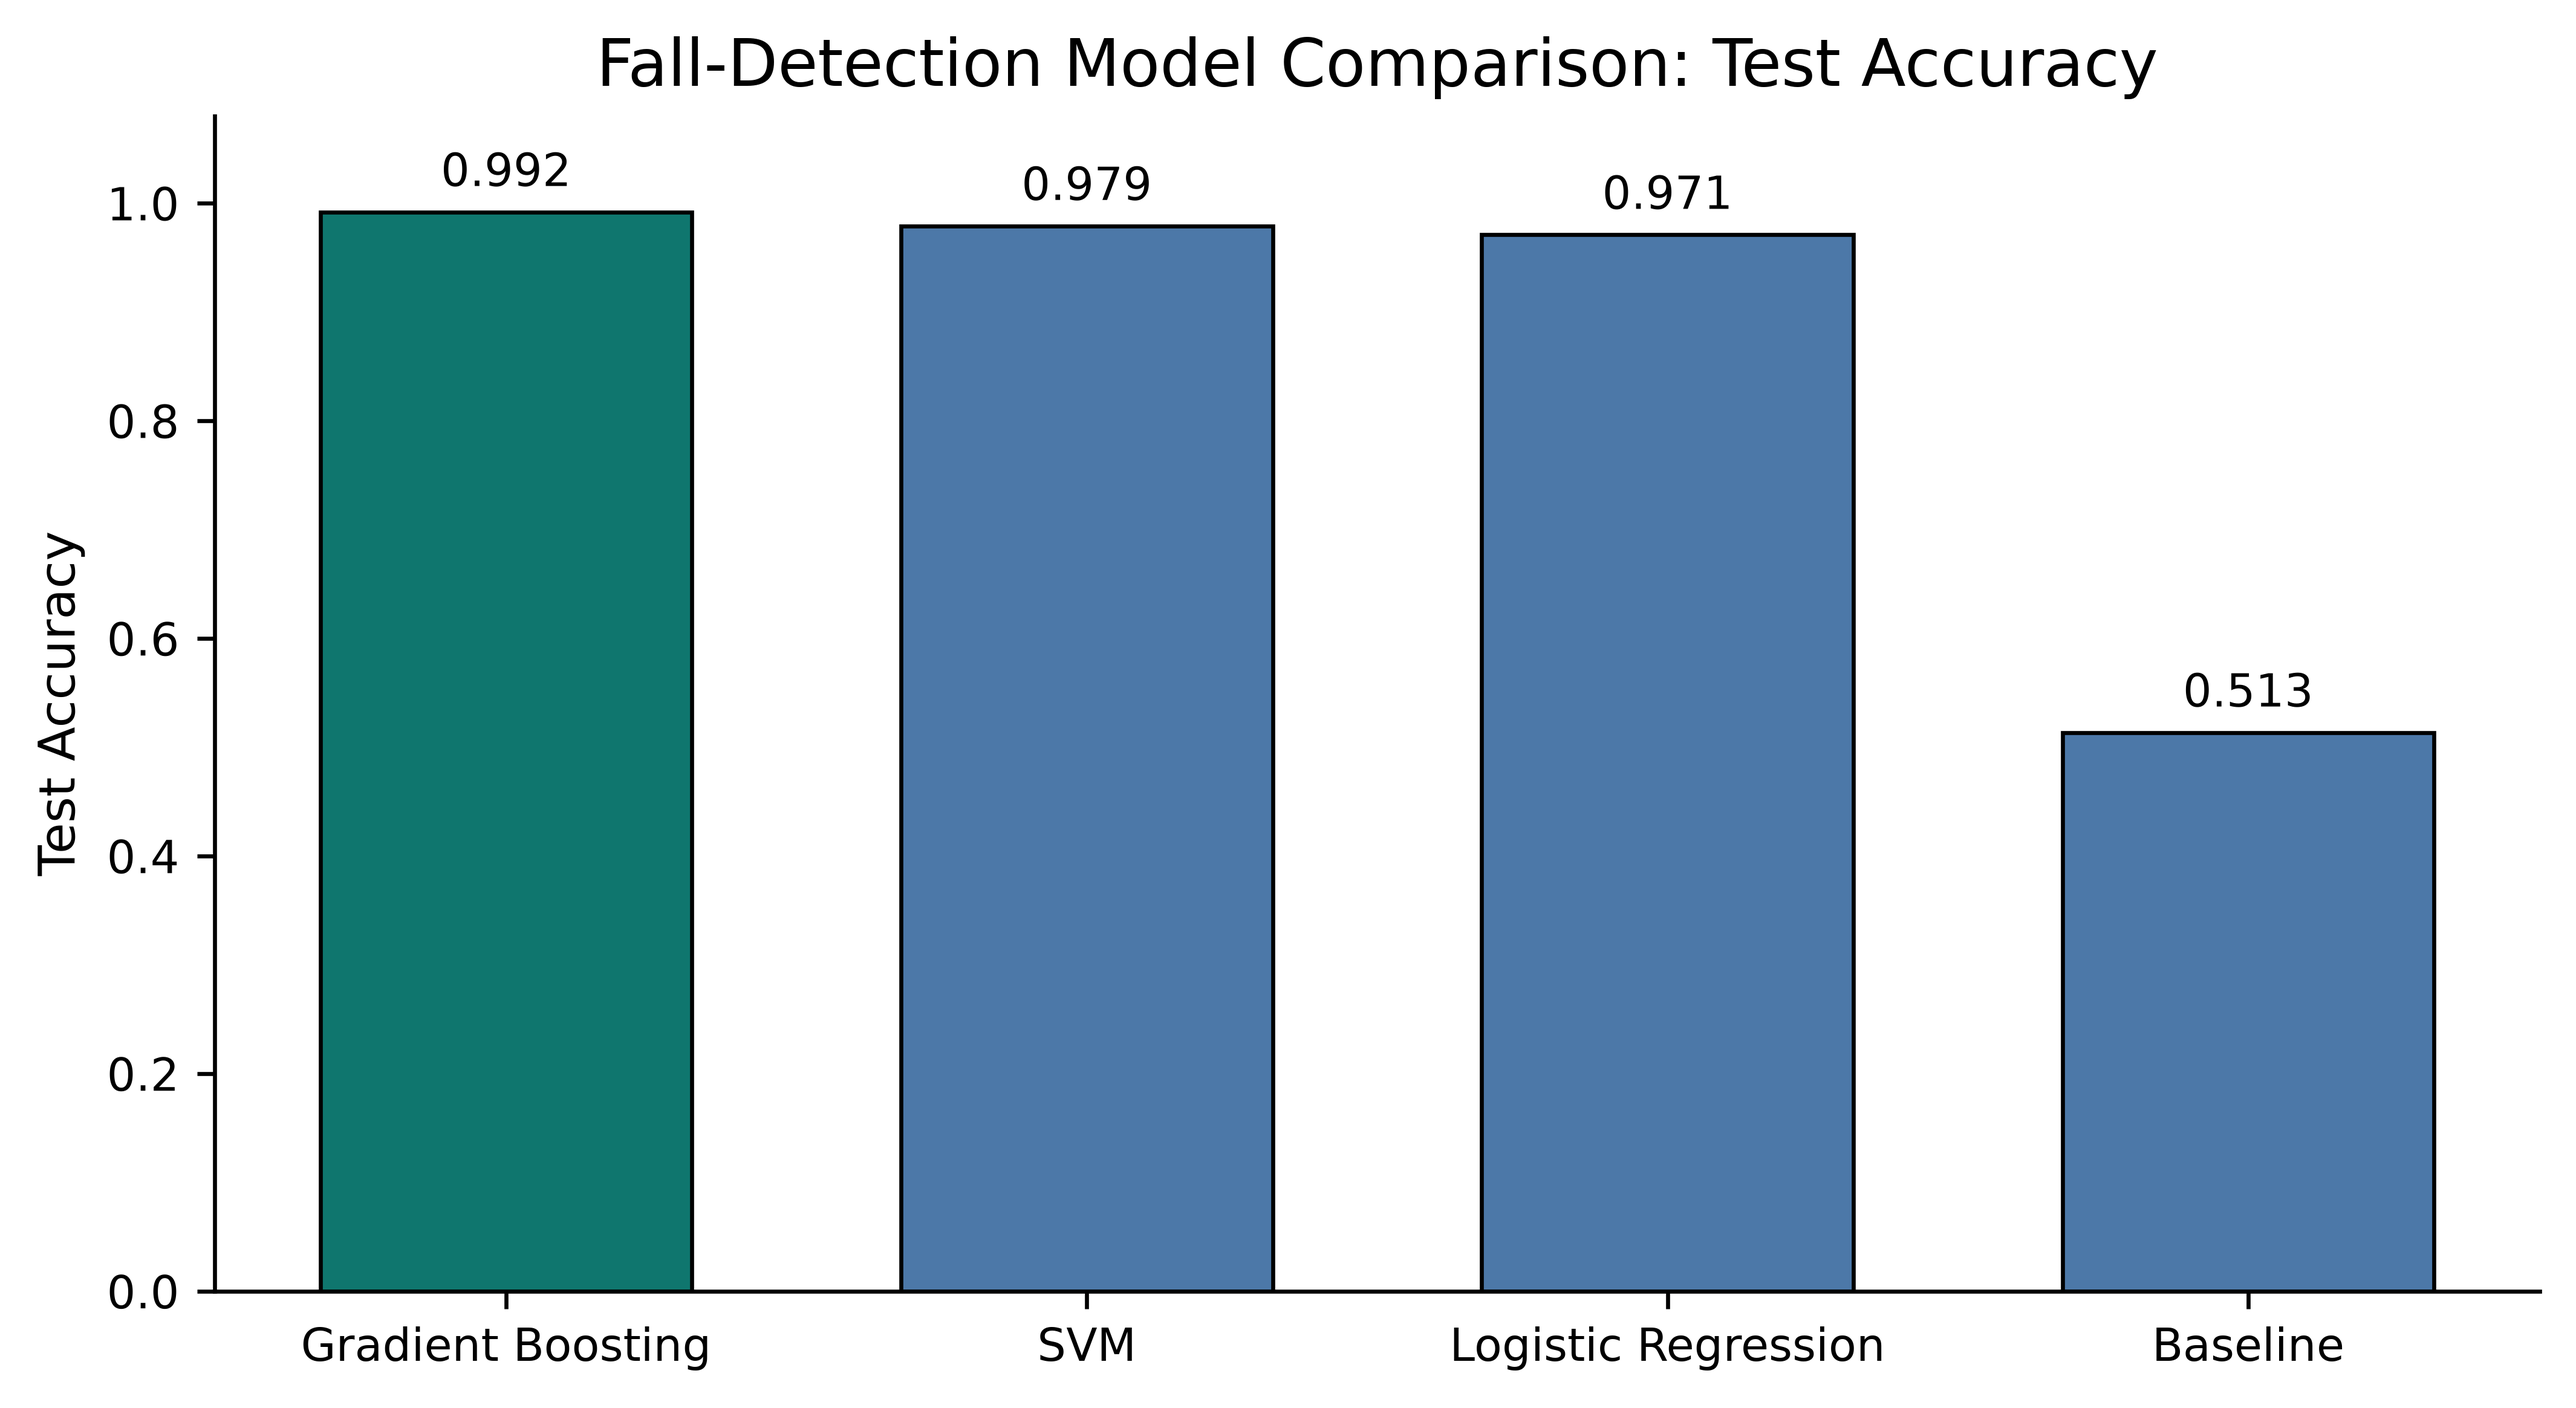
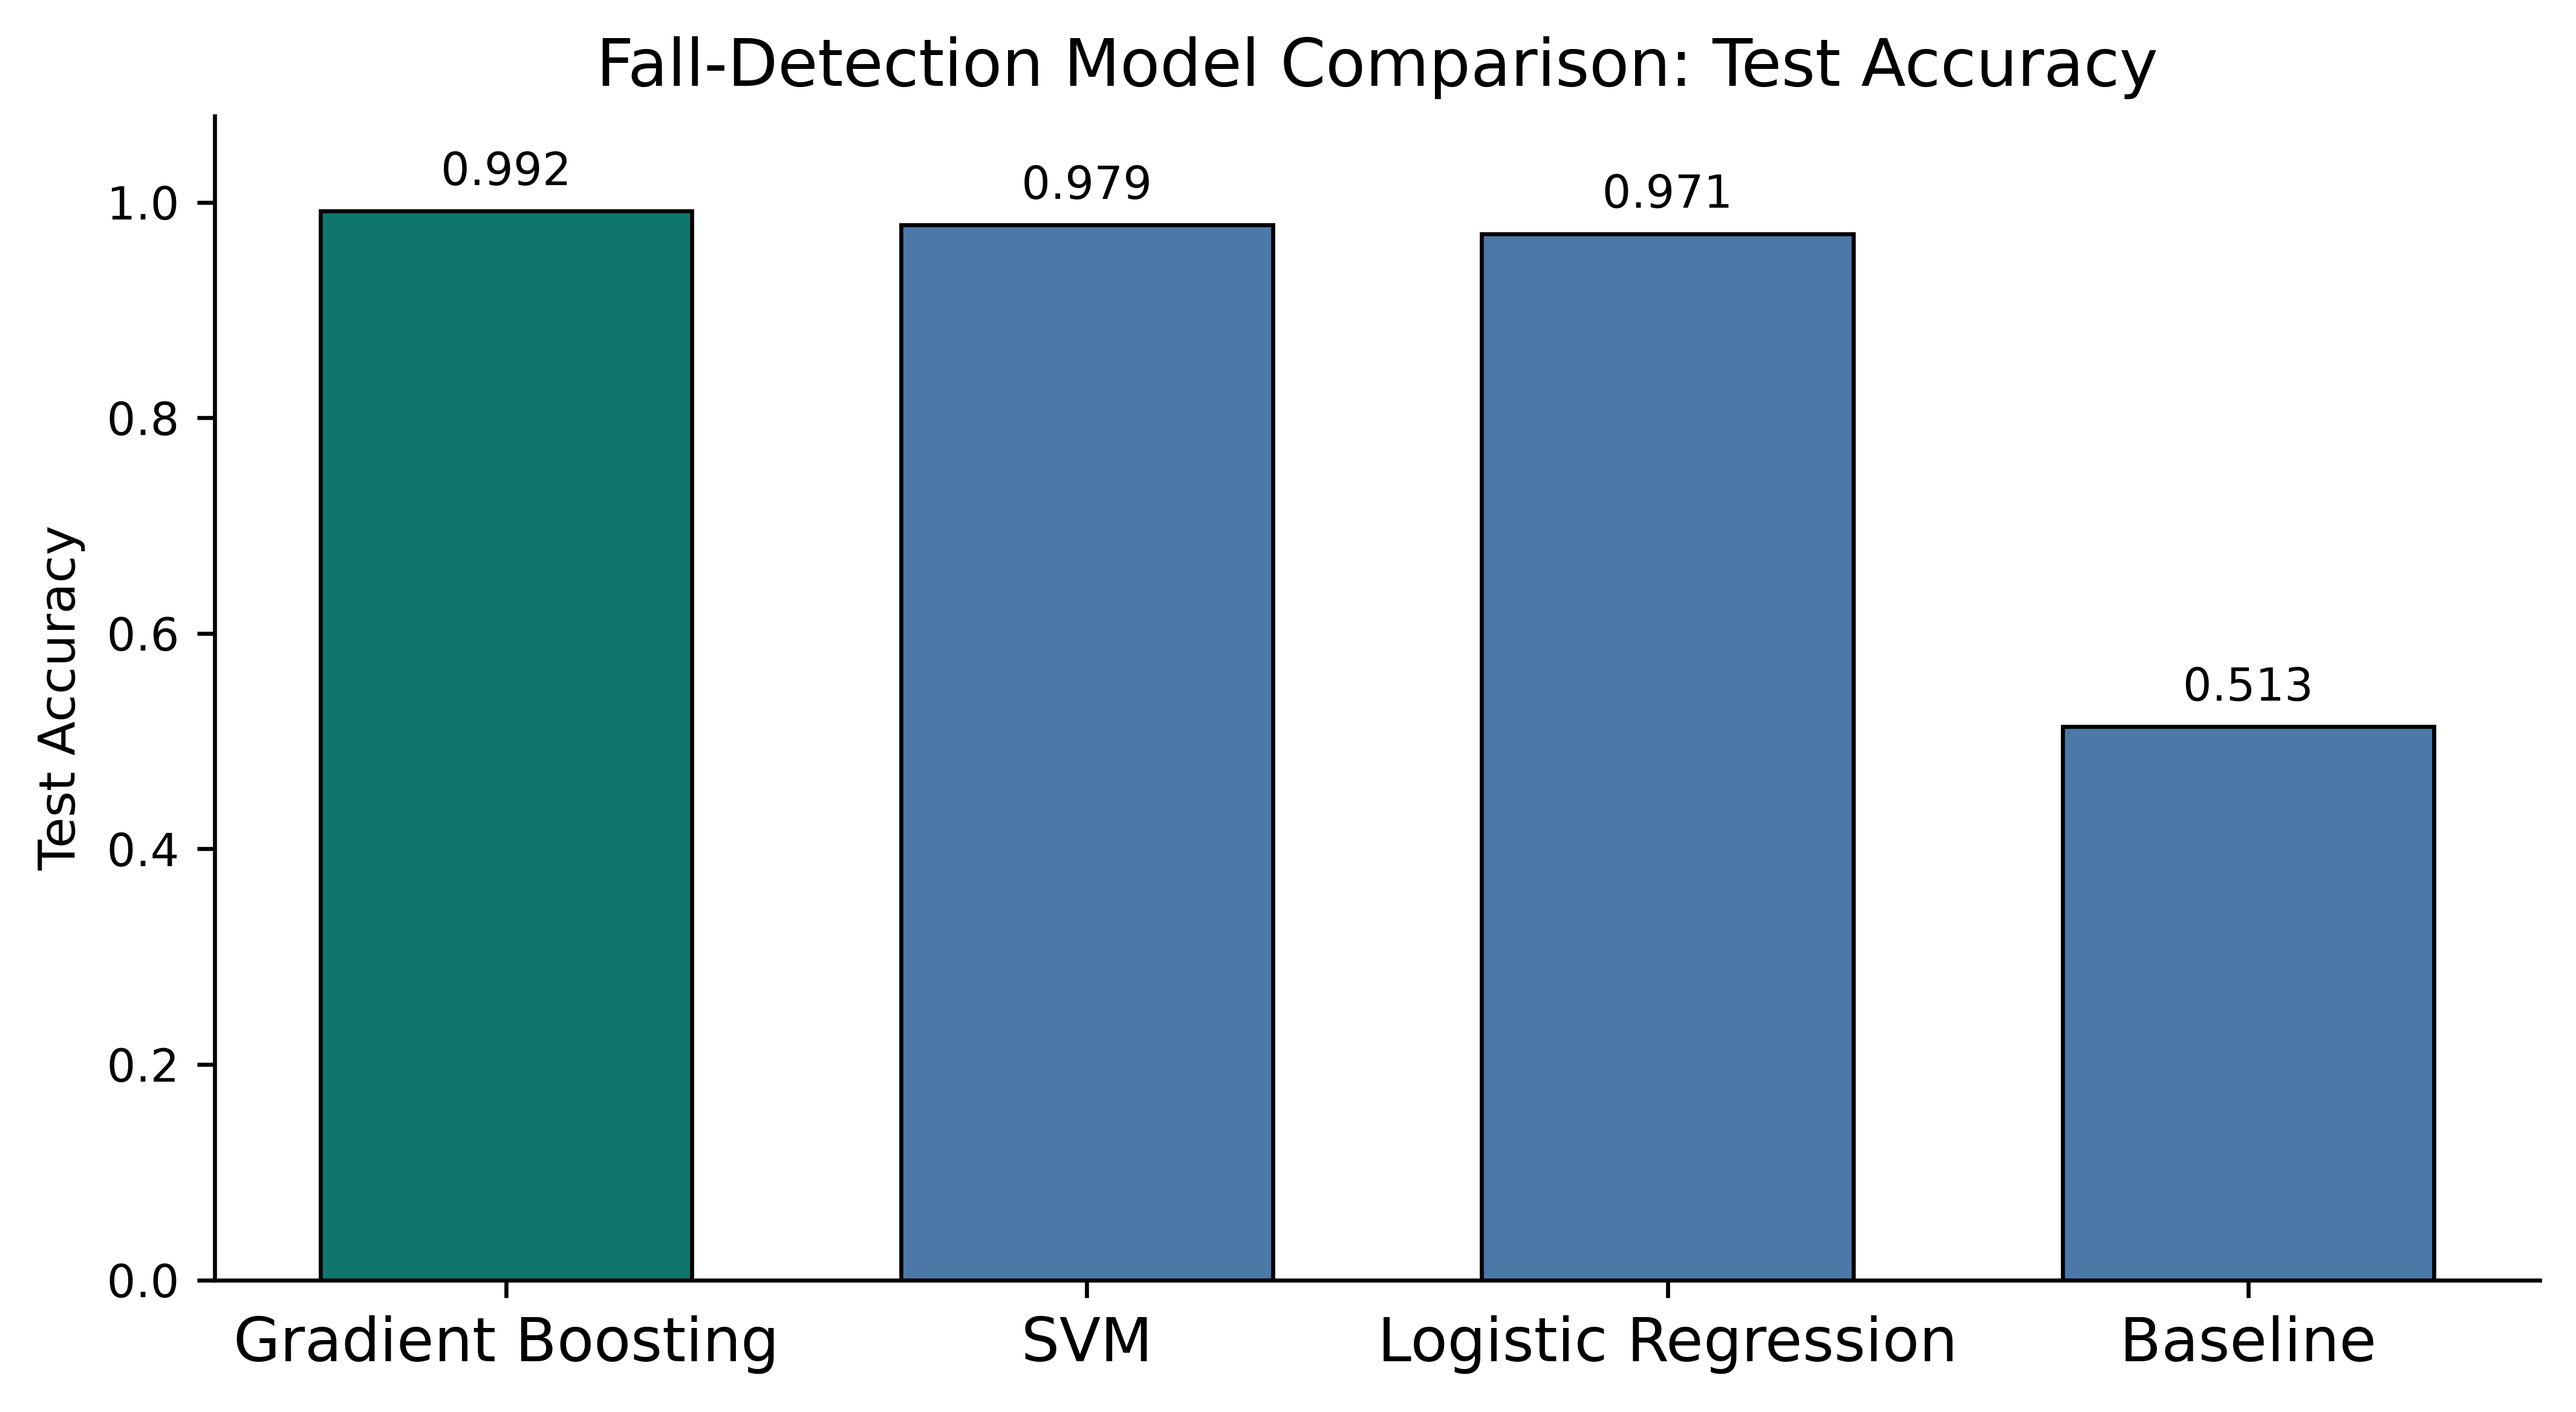
increased bar graph font size

diff --git a/generate_design_matrices.py b/generate_design_matrices.py
@@ -317,7 +317,7 @@ def render_bar_chart(
         ylim=(0, min(1.08, max(scores) + 0.12)),
         title=title,
     )
-    ax.tick_params(axis="x", rotation=0, labelsize=9)
+    ax.tick_params(axis="x", rotation=0, labelsize=12)
     ax.tick_params(axis="y", labelsize=9)
     ax.title.set_fontsize(13)
     ax.yaxis.label.set_fontsize(10)
